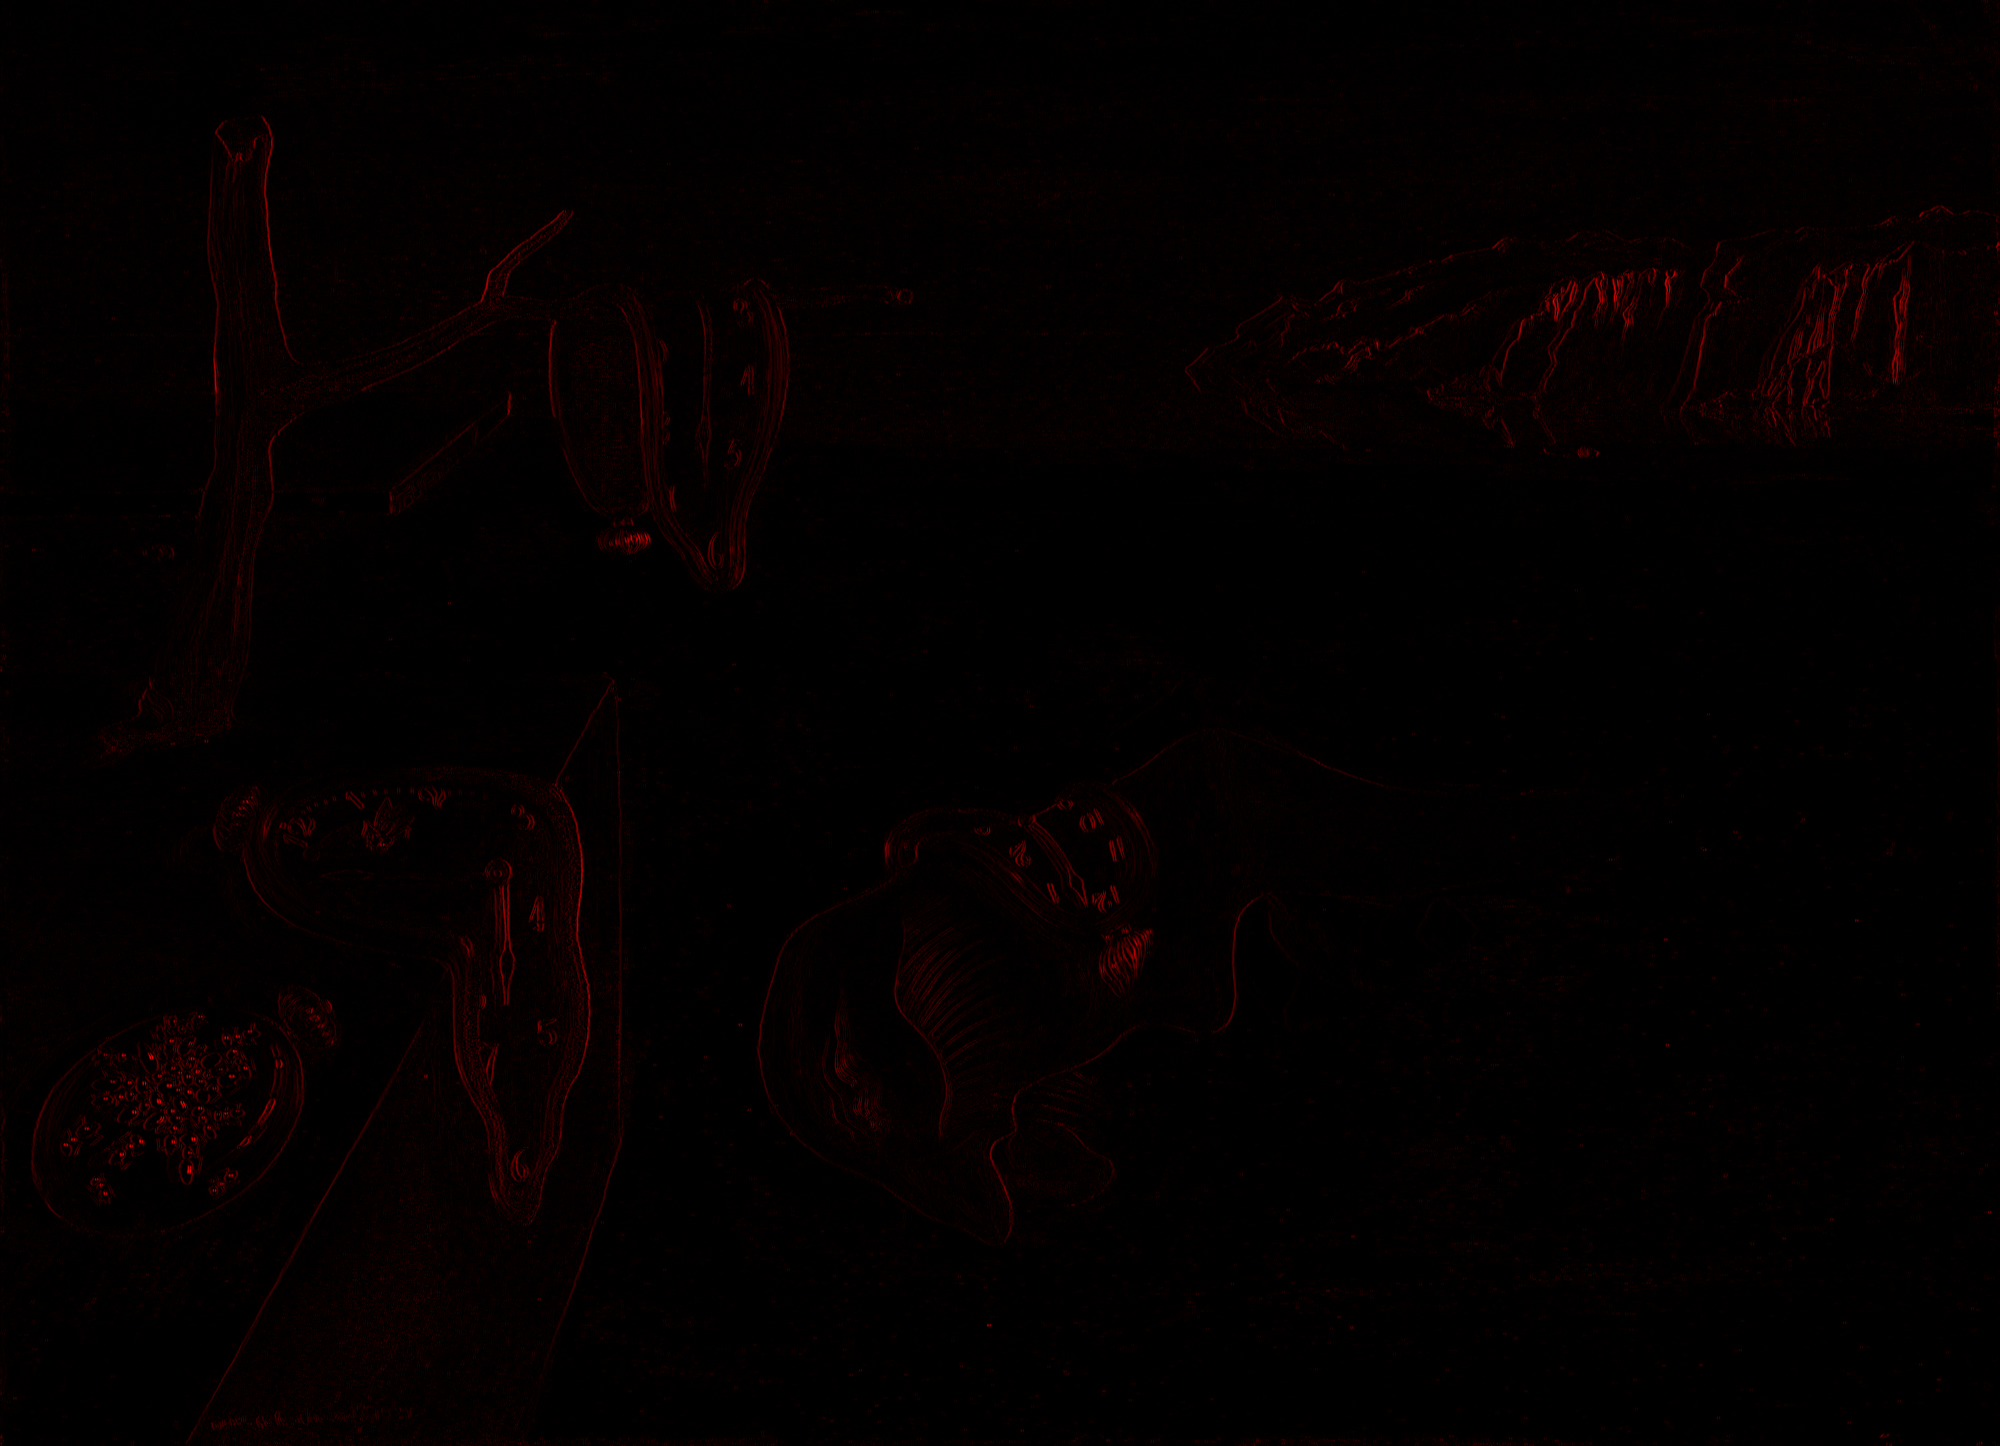
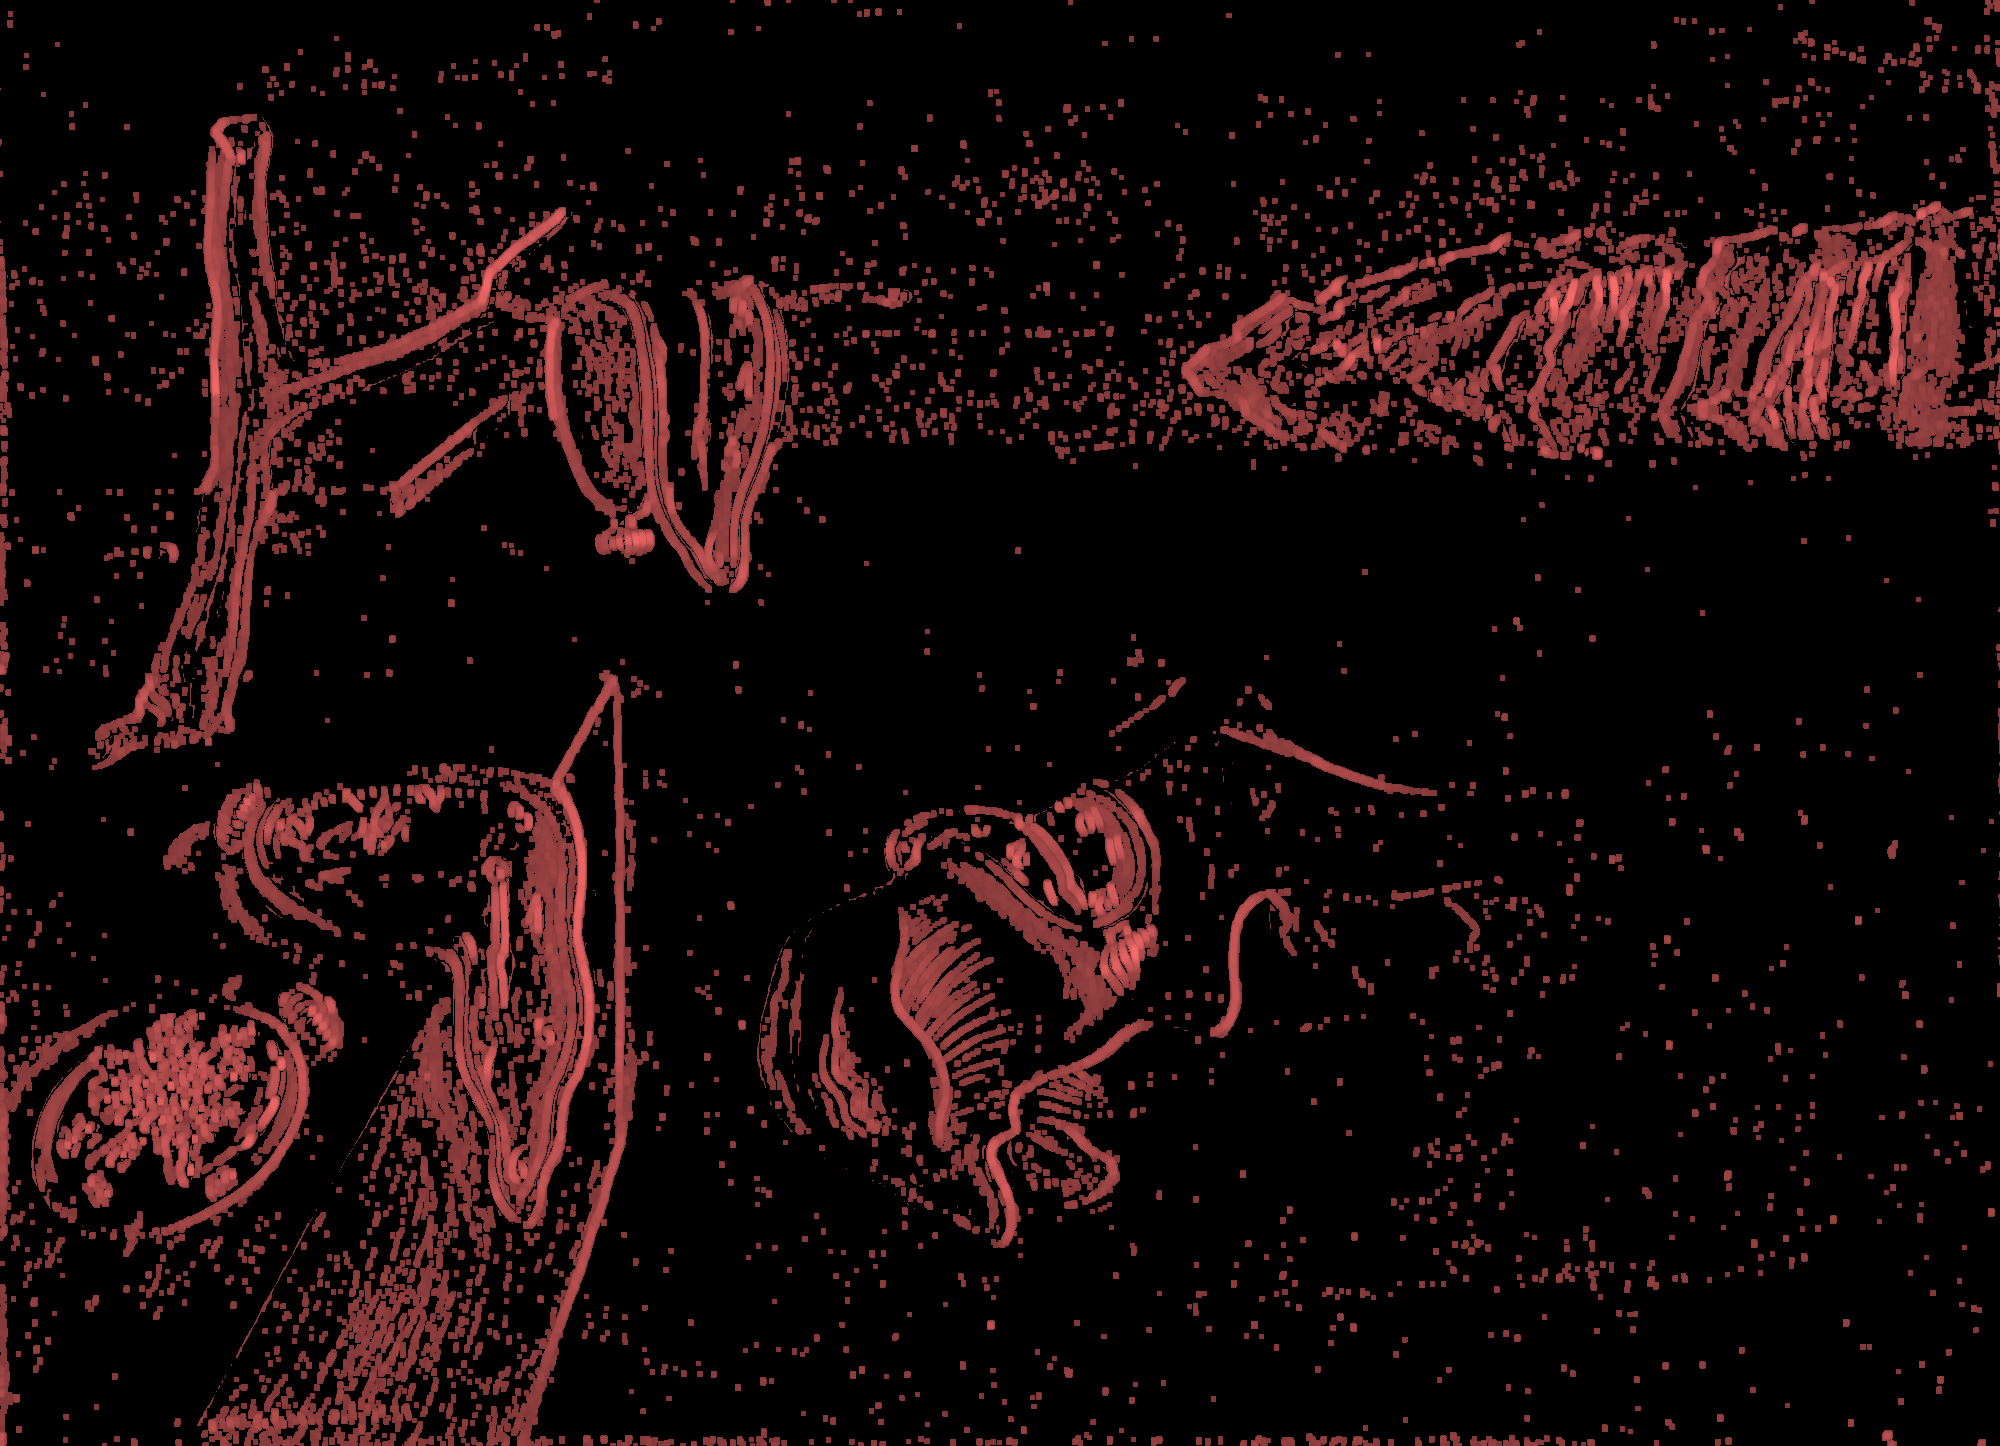
memory edge detection

diff --git a/src/seamcarving_manim/scenes/s25_edge_on_memory.py b/src/seamcarving_manim/scenes/s25_edge_on_memory.py
@@ -1,10 +1,13 @@
 from manim import *
-from importlib.resources import files
 from pathlib import Path
 from PIL import Image
 import numpy as np
 
 from seamcarving_manim.style import H1, caption
+
+# Resolve project root: .../carving-manim/
+PROJECT_ROOT = Path(__file__).resolve().parents[3]
+ASSETS_DIR   = PROJECT_ROOT / "src" / "seamcarving_manim" / "assets" / "images"
 
 
 class EdgeOnMemoryScene(Scene):
@@ -20,35 +23,31 @@ class EdgeOnMemoryScene(Scene):
         self.play(Write(title), run_time=TITLE_RT)
         self.wait(0.4)
 
-        # --- load images from assets ---
-        # Original painting
-        orig_path = files("seamcarving_manim.assets.images").joinpath("memory.jpg")
+        # --- load images from local assets (NOT from venv) ---
+        orig_path = ASSETS_DIR / "memory.jpg"
+        ex_path   = ASSETS_DIR / "memory_edges" / "memory_edge_x.png"
+        ey_path   = ASSETS_DIR / "memory_edges" / "memory_edge_y.png"
+        em_path   = ASSETS_DIR / "memory_edges" / "memory_edge_mag.png"
 
-        # Edges live in the same images package, in subdir memory_edges
-        edges_dir = files("seamcarving_manim.assets.images").joinpath("memory_edges")
+        print("EdgeOnMemoryScene loading from:")
+        print("  orig :", orig_path)
+        print("  edgeX:", ex_path)
+        print("  edgeY:", ey_path)
+        print("  edgeM:", em_path)
 
-        ex_path = Path(str(edges_dir / "memory_edge_x.png"))
-        ey_path = Path(str(edges_dir / "memory_edge_y.png"))
-        em_path = Path(str(edges_dir / "memory_edge_mag.png"))
-
-        # Use arrays so Manim doesn't try to resolve via assets_dir
-        orig = ImageMobject(np.array(Image.open(orig_path).convert("RGB"), dtype=np.uint8))
-
+        orig_arr     = np.array(Image.open(orig_path).convert("RGB"), dtype=np.uint8)
         edge_x_arr   = np.array(Image.open(ex_path).convert("RGB"), dtype=np.uint8)
         edge_y_arr   = np.array(Image.open(ey_path).convert("RGB"), dtype=np.uint8)
         edge_mag_arr = np.array(Image.open(em_path).convert("RGB"), dtype=np.uint8)
 
-        edge_x   = ImageMobject(edge_x_arr)
-        edge_y   = ImageMobject(edge_y_arr)
-        edge_mag = ImageMobject(edge_mag_arr)
-
-        edge_x.set_z_index(100)
-        edge_y.set_z_index(100)
-        edge_mag.set_z_index(100)
-        orig.set_z_index(100)
+        orig    = ImageMobject(orig_arr).set_z_index(100)
+        edge_x  = ImageMobject(edge_x_arr).set_z_index(100)
+        edge_y  = ImageMobject(edge_y_arr).set_z_index(100)
+        edge_mag= ImageMobject(edge_mag_arr).set_z_index(100)
 
 
-
+        for m in [orig, edge_x, edge_y, edge_mag]:
+            m.set_z_index(100)
 
         # unify sizes
         DISP_H = 4.2
@@ -58,7 +57,9 @@ class EdgeOnMemoryScene(Scene):
         # --- Step 1: original only ---
         orig.move_to(ORIGIN)
         self.play(FadeIn(orig, run_time=1.0))
-        cap_orig = caption("Original image: The Persistence of Memory (1931) — Salvador Dalí").to_edge(DOWN, buff=0.4)
+        cap_orig = caption(
+            "Original image: The Persistence of Memory (1931) — Salvador Dalí"
+        ).to_edge(DOWN, buff=0.4)
         self.play(FadeIn(cap_orig, shift=UP * 0.1), run_time=CAP_RT)
         self.wait(HOLD * 1.3)
 
@@ -71,7 +72,9 @@ class EdgeOnMemoryScene(Scene):
 
         edge_x.next_to(orig, RIGHT, buff=0.8)
 
-        cap_x = caption("Sobel X: strong response at vertical edges (left–right changes)").to_edge(DOWN, buff=0.4)
+        cap_x = caption(
+            "Sobel X: strong response at vertical edges (left–right changes)"
+        ).to_edge(DOWN, buff=0.4)
         self.play(
             FadeIn(edge_x, shift=RIGHT * 0.3),
             FadeIn(cap_x, shift=UP * 0.1),
@@ -85,7 +88,6 @@ class EdgeOnMemoryScene(Scene):
         self.wait(0.4)
 
         # --- Step 3: Sobel Y (horizontal edges) ---
-        # slide to switch focus: original on right, Sobel Y on left
         self.play(
             FadeOut(edge_x),
             FadeOut(cap_x, shift=DOWN * 0.1),
@@ -93,10 +95,11 @@ class EdgeOnMemoryScene(Scene):
             run_time=1.0,
         )
 
-        
         edge_y.next_to(orig, LEFT, buff=0.8)
 
-        cap_y = caption("Sobel Y: strong response at horizontal edges (up–down changes)").to_edge(DOWN, buff=0.4)
+        cap_y = caption(
+            "Sobel Y: strong response at horizontal edges (up–down changes)"
+        ).to_edge(DOWN, buff=0.4)
         self.play(
             FadeIn(edge_y, shift=LEFT * 0.3),
             FadeIn(cap_y, shift=UP * 0.1),
@@ -109,21 +112,18 @@ class EdgeOnMemoryScene(Scene):
         self.wait(0.4)
 
         # --- Step 4: bring both edges in and combine into full edge map ---
-       # --- Step 4: bring both edges in and combine into full edge map ---
         self.play(
             FadeOut(cap_y, shift=DOWN * 0.1),
             FadeOut(orig),
-            FadeOut(edge_y), 
+            FadeOut(edge_y),
             run_time=0.7,
         )
 
-
         # small X and Y on left/right, combined in center
-        edge_x_small = edge_x.copy().set_color(RED).set_height(3.0)
-        edge_y_small = edge_y.copy().set_color(BLUE).set_height(3.0)
-        
-
         edge_mag.move_to(ORIGIN)
+        edge_x_small = edge_x.copy().set_height(3.0)
+        edge_y_small = edge_y.copy().set_height(3.0)
+
         edge_x_small.next_to(edge_mag, LEFT, buff=0.8)
         edge_y_small.next_to(edge_mag, RIGHT, buff=0.8)
 
@@ -133,12 +133,14 @@ class EdgeOnMemoryScene(Scene):
             run_time=1.0,
         )
 
-        cap_combine = caption("Combine |∂I/∂x| and |∂I/∂y| → full edge map |∇I|").to_edge(DOWN, buff=0.4)
+        cap_combine = caption(
+            "Combine |∂I/∂x| and |∂I/∂y| → full edge map |∇I|"
+        ).to_edge(DOWN, buff=0.4)
         self.play(FadeIn(cap_combine, shift=UP * 0.1), run_time=CAP_RT)
         self.wait(HOLD)
 
         # "Cool" combination animation: X + Y collapse into center and crossfade to |∇I|
-        edge_mag.set_opacity(0)
+        edge_mag.set_opacity(0.0)
         self.add(edge_mag)
 
         self.play(

diff --git a/edge_on_memory.py b/edge_on_memory.py
@@ -1,21 +1,27 @@
 # tools/precompute_memory_edges.py
-from importlib.resources import files
-from pathlib import Path
 
+from pathlib import Path
 import numpy as np
 from PIL import Image
 from scipy.ndimage import convolve, gaussian_filter, maximum_filter
 
-# Locate the *installed* assets/images folder
-assets_root = files("seamcarving_manim.assets.images")
-src_path    = assets_root.joinpath("memory.jpg")
+# -----------------------------------------
+# Resolve PROJECT ROOT (this file is at repo root)
+# -----------------------------------------
+PROJECT_ROOT = Path(__file__).resolve().parent
 
-# Output dir inside the installed package
-edges_dir = assets_root.joinpath("memory_edges")
-Path(edges_dir).mkdir(parents=True, exist_ok=True)
+ASSETS_DIR = PROJECT_ROOT / "src" / "seamcarving_manim" / "assets" / "images"
+SRC_PATH   = ASSETS_DIR / "memory.jpg"
 
-# Load original
-img = Image.open(src_path).convert("L")  # grayscale
+EDGES_DIR  = ASSETS_DIR / "memory_edges"
+EDGES_DIR.mkdir(parents=True, exist_ok=True)
+
+print("Project root:", PROJECT_ROOT)
+print("Reading from:", SRC_PATH)
+print("Saving to:", EDGES_DIR)
+
+# Load original as grayscale
+img = Image.open(SRC_PATH).convert("L")
 arr = np.array(img, dtype=float)
 
 # Sobel kernels
@@ -31,43 +37,56 @@ gx = convolve(arr, KX, mode="reflect")
 gy = convolve(arr, KY, mode="reflect")
 mag = np.sqrt(gx**2 + gy**2)
 
-# ---- THICKEN EDGES (important change) ----
+# ---- THICKEN EDGES (blur + max filter) ----
+gx = gaussian_filter(gx, sigma=1.2)
+gy = gaussian_filter(gy, sigma=1.2)
+mag = gaussian_filter(mag, sigma=1.2)
 
-# First thickening pass
-gx = gaussian_filter(gx, sigma=1.6)
-gy = gaussian_filter(gy, sigma=1.6)
-mag = gaussian_filter(mag, sigma=1.6)
+# make strokes fatter
+gx = maximum_filter(gx, size=5)
+gy = maximum_filter(gy, size=5)
+mag = maximum_filter(mag, size=5)
 
-# Second pass (“soft dilation” using local max)
-gx = maximum_filter(gx, size=3)
-gy = maximum_filter(gy, size=3)
-mag = maximum_filter(mag, size=3)
 
 def norm255(a, gamma=0.45, floor=90, clip_low=10):
     """
-    Extra bold edges:
-    - gamma < 0.5 = boosts even mid-low responses
-    - floor = guarantees minimum visibility
-    - clip_low removes tiny specks
+    Map gradient magnitudes to 0–255 with:
+      - hard suppression of tiny responses (clip_low)
+      - gamma < 1 to boost midtones
+      - 'floor' only applied to nonzero edges
+    Background stays pure black.
     """
-    m = np.max(np.abs(a))
+    a_abs = np.abs(a)
+    m = np.max(a_abs)
     if m == 0:
         return np.zeros_like(a, dtype=np.uint8)
 
-    n = np.abs(a) / m
-    n[n < (clip_low / 255.0)] = 0.0
-    n = np.power(n, gamma)
-    n = floor + (255 - floor) * n
-    n = np.clip(n, 0, 255)
+    # normalize
+    n = a_abs / m
 
-    return n.astype(np.uint8)
+    # suppress tiny gradient responses
+    n[n < (clip_low / 255.0)] = 0.0
+
+    # allocate output
+    out = np.zeros_like(a_abs, dtype=np.float32)
+
+    # only apply gamma + floor where there is an edge
+    mask = n > 0
+    if np.any(mask):
+        v = n[mask] ** gamma
+        v = floor + (255 - floor) * v
+        out[mask] = v
+
+    out = np.clip(out, 0, 255)
+    return out.astype(np.uint8)
+
 
 gx_n  = norm255(gx)
 gy_n  = norm255(gy)
 mag_n = norm255(mag)
 
 # ======================================
-# Color palettes
+# Color palettes (pastel / bright)
 # ======================================
 
 LIGHT_RED  = np.array([255, 110, 110])   # soft light red
@@ -75,20 +94,24 @@ BABY_BLUE  = np.array([120, 190, 255])   # baby blue
 LIME_GREEN = np.array([140, 255, 120])   # lime green
 
 # ======================================
-# Apply color
+# Apply color on black background
 # ======================================
 
 gx_rgb  = np.zeros((*gx_n.shape, 3), dtype=np.uint8)
 gy_rgb  = np.zeros((*gy_n.shape, 3), dtype=np.uint8)
 mag_rgb = np.zeros((*mag_n.shape, 3), dtype=np.uint8)
 
+scale_gx  = gx_n.astype(np.float32) / 255.0
+scale_gy  = gy_n.astype(np.float32) / 255.0
+scale_mag = mag_n.astype(np.float32) / 255.0
+
 for c in range(3):
-    gx_rgb[..., c]  = (gx_n / 255.0) * LIGHT_RED[c]
-    gy_rgb[..., c]  = (gy_n / 255.0) * BABY_BLUE[c]
-    mag_rgb[..., c] = (mag_n / 255.0) * LIME_GREEN[c]
+    gx_rgb[..., c]  = (scale_gx  * LIGHT_RED[c]).astype(np.uint8)
+    gy_rgb[..., c]  = (scale_gy  * BABY_BLUE[c]).astype(np.uint8)
+    mag_rgb[..., c] = (scale_mag * LIME_GREEN[c]).astype(np.uint8)
 
-Image.fromarray(gx_rgb.astype(np.uint8)).save(edges_dir / "memory_edge_x.png")
-Image.fromarray(gy_rgb.astype(np.uint8)).save(edges_dir / "memory_edge_y.png")
-Image.fromarray(mag_rgb.astype(np.uint8)).save(edges_dir / "memory_edge_mag.png")
+Image.fromarray(gx_rgb).save(EDGES_DIR / "memory_edge_x.png")
+Image.fromarray(gy_rgb).save(EDGES_DIR / "memory_edge_y.png")
+Image.fromarray(mag_rgb).save(EDGES_DIR / "memory_edge_mag.png")
 
-print("Saved EXTRA thick, high-contrast pastel edge maps to:", edges_dir)
+print("Saved edge maps to:", EDGES_DIR)
